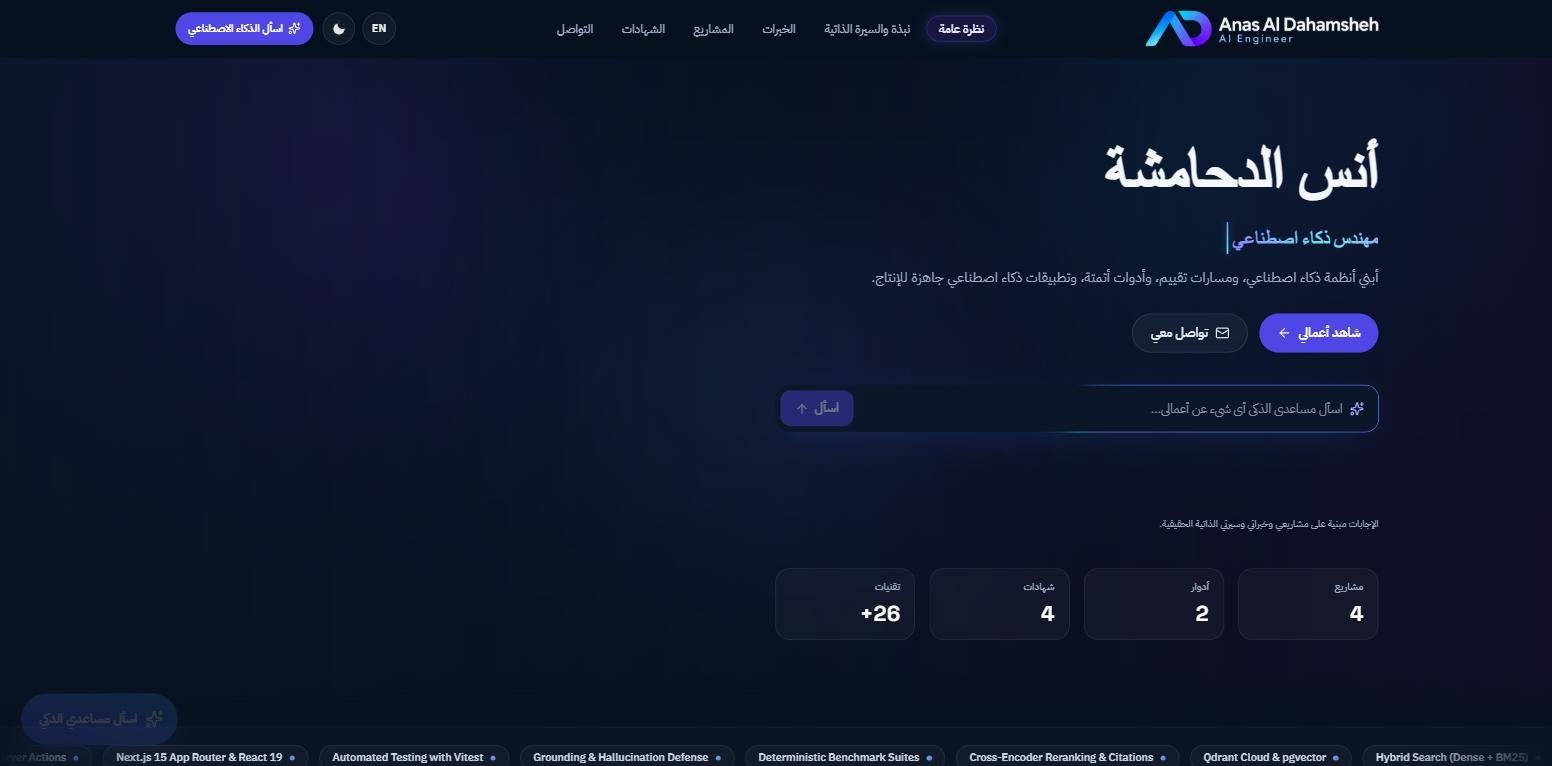
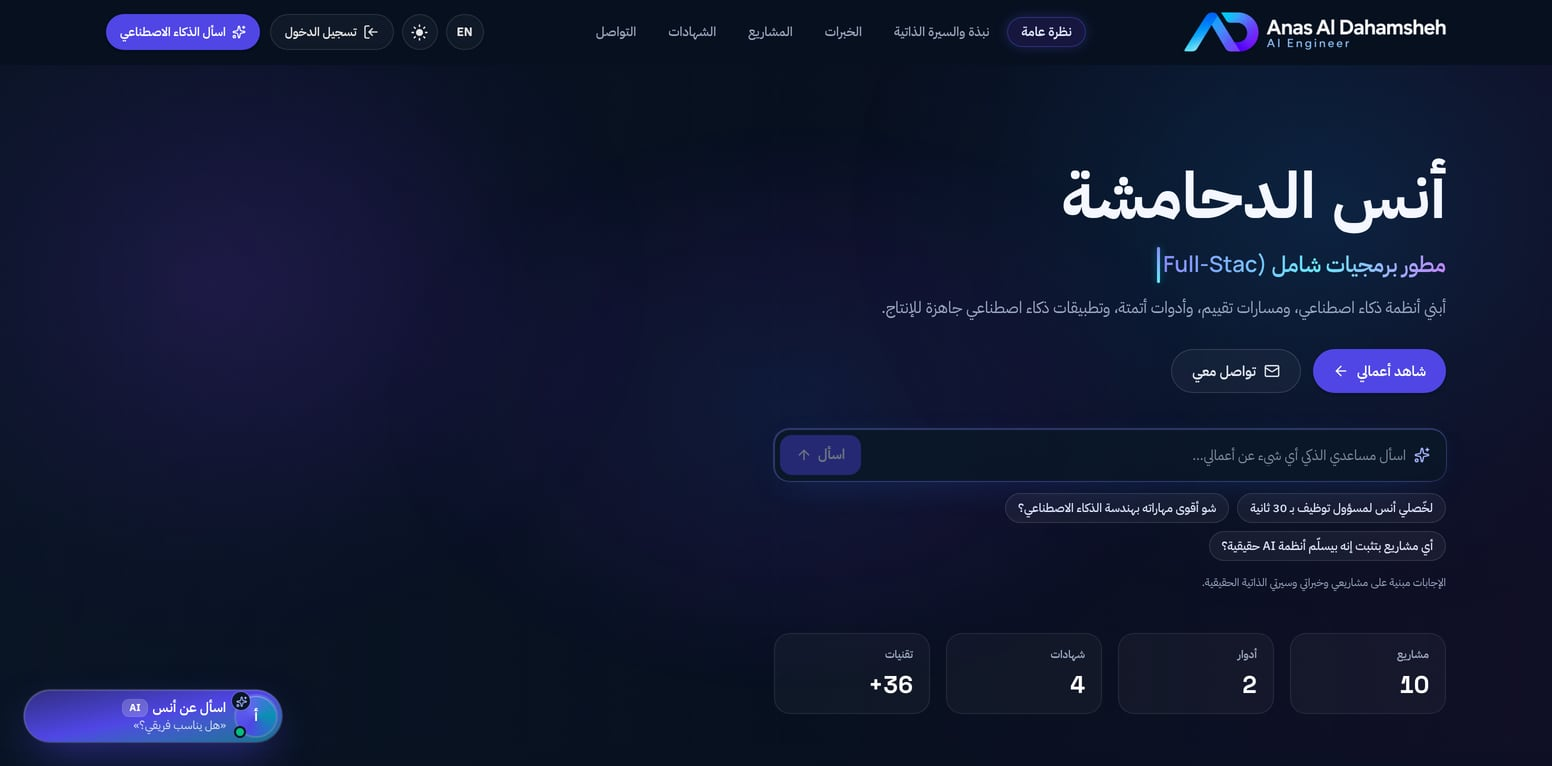
Retake the README and social preview images from the new site, remove placeholder project claims from the profile and experience, and refresh a Sieve screenshot

diff --git a/src/server/content/corrections.ts b/src/server/content/corrections.ts
@@ -1,0 +1,72 @@
+import type { CollectionName } from "./collections";
+import { updateEntry } from "./mutations";
+import { listAllRows } from "./repository";
+
+/**
+ * Text that described the placeholder projects the site launched with. A release takes it out of
+ * the profile and experience entries already in the database (and the seed no longer has it).
+ * Only exact matches are touched, so anything the owner has rewritten in the admin stays as is.
+ */
+const COLLECTIONS: CollectionName[] = ["profile", "experience"];
+
+/** List items (highlights, technologies) to drop. */
+const REMOVE_ITEMS = new Set([
+  "Engineered autonomous multimodal RAG pipeline combining BGE-M3 dense embeddings and BM25 lexical search, achieving 99.4% citation accuracy and 180ms P95 latency.",
+  "Constructed embedded Rust edge policy consensus daemon with Ed25519 token verification, maintaining sub-3ms P99 latency under 50,000 requests/second.",
+  "Built real-time bidirectional neural speech stream utilizing WebRTC and low-latency chunked audio inference, reducing conversational lag to 125ms.",
+  "Engineered zero-runtime-overhead bilingual design systems strictly compliant with WCAG 2.2 AA accessibility standards across both light and dark themes.",
+  "تصميم محرك RAG هجين يدمج التضمين الشعاعي والفهرسة المعجمية محققاً دقة اقتباس 99.4% وزمن استجابة 180ms.",
+  "تطوير خادم حافة بلغة Rust للتحقق المشفر من الصلاحيات بزمن استجابة P99 يقل عن 3ms تحت ضغط 50,000 طلب/ثانية.",
+  "بناء مسار تدفق صوتي عصبي ثنائي الاتجاه عبر WebRTC، مقلصاً زمن التأخر للمحادثة الحية إلى 125ms.",
+  "بناء أنظمة تصميم ثنائية اللغة متوافقة تماماً مع معايير إمكانية الوصول WCAG 2.2 AA في الوضعين الليلي والنهاري.",
+  "Rust",
+  "Qdrant",
+  "WebRTC",
+]);
+
+/** Phrases to rewrite inside longer text. */
+const REPLACE: [string, string][] = [
+  [
+    "hybrid RAG retrieval pipelines, edge policy consensus systems, and automated evaluation workflows",
+    "hybrid RAG retrieval pipelines and automated evaluation workflows",
+  ],
+  ["مسارات استرجاع هجينة (RAG)، بوابات حافة موزعة، ومسارات", "مسارات استرجاع هجينة (RAG)، ومسارات"],
+  [
+    "Whether engineering a hybrid dense/sparse RAG pipeline, writing low-latency edge daemons in Rust, or crafting accessible bilingual interfaces,",
+    "Whether engineering a hybrid dense/sparse RAG pipeline or crafting accessible bilingual interfaces,",
+  ],
+  [
+    "سواء كنت أصمم محرك استرجاع هجين (Hybrid RAG)، أو أبني خادم حافة عالي الأداء بلغة Rust، أو أطور",
+    "سواء كنت أصمم محرك استرجاع هجين (Hybrid RAG) أو أطور",
+  ],
+];
+
+function clean(value: unknown): unknown {
+  if (typeof value === "string") {
+    return REPLACE.reduce((text, [from, to]) => text.split(from).join(to), value);
+  }
+  if (Array.isArray(value)) {
+    return value.filter((item) => !(typeof item === "string" && REMOVE_ITEMS.has(item))).map(clean);
+  }
+  if (value && typeof value === "object") {
+    return Object.fromEntries(Object.entries(value).map(([key, item]) => [key, clean(item)]));
+  }
+  return value;
+}
+
+/** Applies the corrections; returns the slugs of the entries that changed. */
+export async function applyContentCorrections(actor: string): Promise<string[]> {
+  const changed: string[] = [];
+  for (const collection of COLLECTIONS) {
+    for (const row of await listAllRows(collection)) {
+      const data = clean(row.data) as Record<string, unknown>;
+      const i18n = clean(row.i18n) as Record<string, Record<string, unknown>>;
+      if (JSON.stringify(data) === JSON.stringify(row.data)) {
+        if (JSON.stringify(i18n) === JSON.stringify(row.i18n)) continue;
+      }
+      await updateEntry(row.id, { data, i18n }, actor);
+      changed.push(`${collection}/${row.slug}`);
+    }
+  }
+  return changed;
+}

diff --git a/src/server/content/release.ts b/src/server/content/release.ts
@@ -3,6 +3,7 @@ import { db } from "@/lib/db/client";
 import { appSettings, contentEntries } from "@/lib/db/schema";
 import { projectEntries, type ProjectRelease } from "@/content/projects";
 import { COLLECTIONS, LOCALES } from "./collections";
+import { applyContentCorrections } from "./corrections";
 import { createEntry, deleteEntry, reorderEntries, updateEntry } from "./mutations";
 import { listAllRows } from "./repository";
 
@@ -12,7 +13,7 @@ import { listAllRows } from "./repository";
  * owner makes afterwards in the admin are never overwritten by a later deploy. Bump the id to
  * publish a new version of the projects.
  */
-export const PROJECTS_RELEASE_ID = "projects-2026-10";
+export const PROJECTS_RELEASE_ID = "projects-2026-10-2";
 
 const releaseKey = (id: string) => `content_release:${id}`;
 const ACTOR = "content-release";
@@ -23,6 +24,8 @@ export interface ReleaseResult {
   created: string[];
   updated: string[];
   removed: string[];
+  /** Profile and experience entries cleaned of text about the placeholder projects. */
+  corrected?: string[];
 }
 
 /** Checks every entry against the collection schema before anything is written. */
@@ -59,7 +62,8 @@ export async function releaseApplied(id = PROJECTS_RELEASE_ID): Promise<boolean>
  * Makes the project collection exactly the release: entries are created or replaced by slug
  * (keeping their ids, so links and history survive), projects that are not in the release are
  * deleted (a revision is kept, so they can be restored from the admin) and the order follows
- * the release. The caller rebuilds the assistant's index afterwards.
+ * the release. Text about the placeholder projects is also taken out of the profile and
+ * experience entries. The caller rebuilds the assistant's index afterwards.
  */
 export async function applyProjectsRelease(
   options: { force?: boolean; id?: string; entries?: ProjectRelease[] } = {},
@@ -98,6 +102,7 @@ export async function applyProjectsRelease(
     result.removed.push(row.slug);
   }
   await reorderEntries("project", orderedIds);
+  result.corrected = await applyContentCorrections(ACTOR);
 
   const value = { appliedAt: new Date().toISOString(), ...result };
   await db
